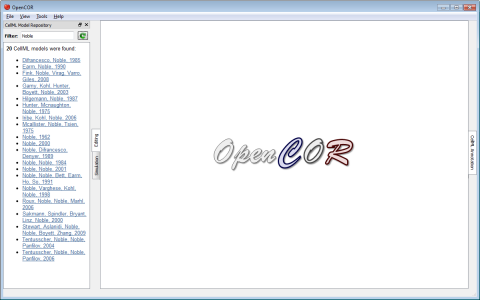
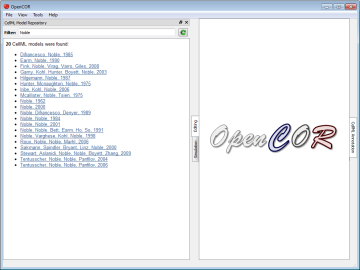
Some editing of our documentation.

Changed region(s): [[0.0, 0.0, 1.0, 1.0], [0.5194, 0.9481, 0.55, 0.9778]]

diff --git a/doc/user/plugins/CellMLModelRepository.html b/doc/user/plugins/CellMLModelRepository.html
@@ -23,7 +23,7 @@
         </p>
 
         <p>
-            <a class="image" href="../res/image.html?image=../plugins/res/pics/CellMLModelRepositoryScreenshot01.png&caption=CellMLModelRepository plugin: list of all the CellML files"><img class="centerLink" src="res/pics/CellMLModelRepositoryScreenshot01Small.png" width=480 height=300 alt="CellMLModelRepository plugin: list of all the CellML files"></a>
+            <a class="image" href="../res/image.html?image=../plugins/res/pics/CellMLModelRepositoryScreenshot01.png&caption=CellMLModelRepository plugin: list of all the CellML files"><img class="centerLink" src="res/pics/CellMLModelRepositoryScreenshot01Small.png" width=360 height=270 alt="CellMLModelRepository plugin: list of all the CellML files"></a>
         </p>
 
         <p>
@@ -31,7 +31,7 @@
         </p>
 
         <p>
-            <a class="image" href="../res/image.html?image=../plugins/res/pics/CellMLModelRepositoryScreenshot02.png&caption=CellMLModelRepository plugin: filtered list of CellML files"><img class="centerLink" src="res/pics/CellMLModelRepositoryScreenshot02Small.png" width=480 height=300 alt="CellMLModelRepository plugin: filtered list of CellML files"></a>
+            <a class="image" href="../res/image.html?image=../plugins/res/pics/CellMLModelRepositoryScreenshot02.png&caption=CellMLModelRepository plugin: filtered list of CellML files"><img class="centerLink" src="res/pics/CellMLModelRepositoryScreenshot02Small.png" width=360 height=270 alt="CellMLModelRepository plugin: filtered list of CellML files"></a>
         </p>
 
         <p>
